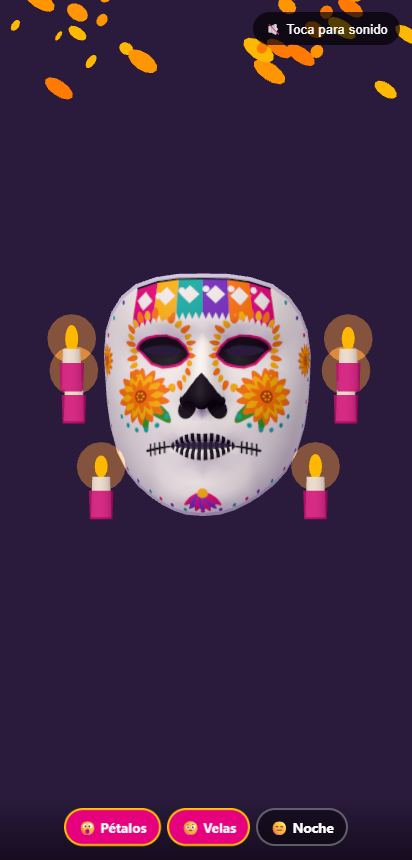
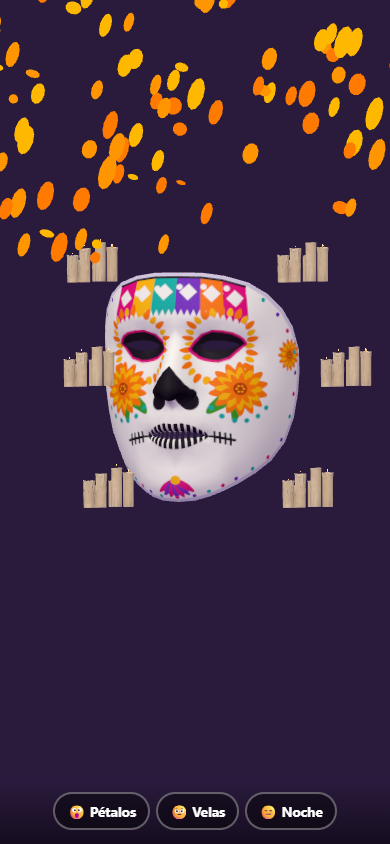
feat(effects): candles without the halo disc and a new effects screenshot

diff --git a/js/main.js b/js/main.js
@@ -129,7 +129,7 @@ function crearVela() {
 }
 
 // Las veladoras de Sketchfab (las mismas del altar) sustituyen a los cilindros
-// en cuanto cargan; el halo sigue titilando detrás de cada una.
+// en cuanto cargan.
 new GLTFLoader().load('assets/veladora.glb', gltf => {
   const caja = new THREE.Box3().setFromObject(gltf.scene);
   const k = 1.1 / caja.getSize(new THREE.Vector3()).y;
@@ -137,9 +137,8 @@ new GLTFLoader().load('assets/veladora.glb', gltf => {
   gltf.scene.position.set(-(caja.min.x + caja.max.x) / 2 * k, -0.55 - caja.min.y * k, -(caja.min.z + caja.max.z) / 2 * k);
   for (const v of velas) {
     const [cera, vaso, flama, halo] = v.children;
-    cera.visible = vaso.visible = flama.visible = false;
+    cera.visible = vaso.visible = flama.visible = halo.visible = false; // el modelo ya trae sus flamas
     v.add(gltf.scene.clone());
-    v.userData.flama = halo;
   }
 });
 
